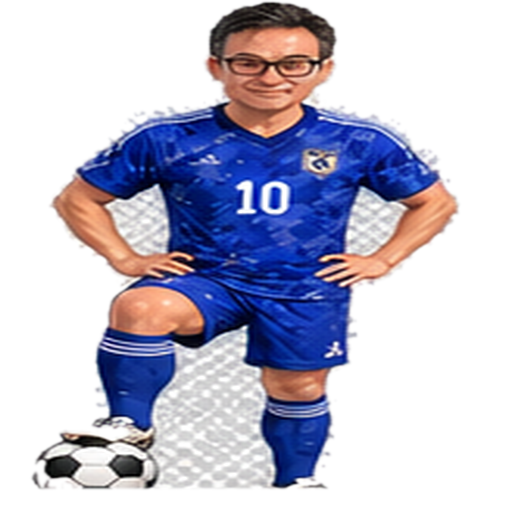
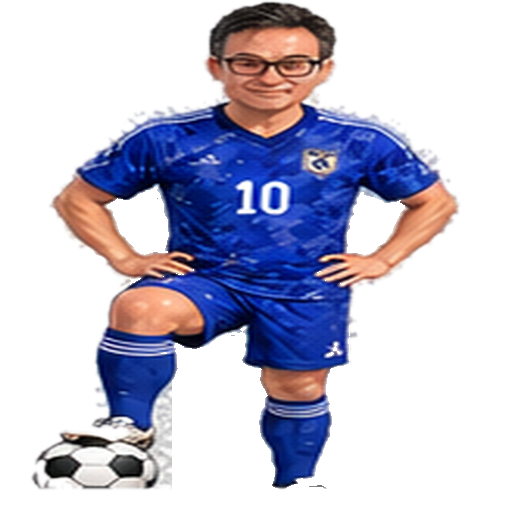
主人公スプライトを拡大し、足元の切り抜き残りを除去
- フィールド画面の主人公表示サイズを拡大（顔が判別できる大きさに）
- tanabe.png の足元まわりに残っていた背景の網目模様の切り抜き残りを除去
- 差し替えに合わせてキャッシュ回避のバージョンクエリを付与

Claude-Session: https://claude.ai/code/session_01MAs7Q3Gb4edbL9QTaBWda5

diff --git a/js/engine/soccer.js b/js/engine/soccer.js
@@ -91,7 +91,7 @@ class SoccerMatch {
     c.strokeRect(this.W/2-55,12,110,22);c.strokeRect(this.W/2-55,this.H-34,110,22);c.restore();
     const drawPlayer=(o,color)=>{c.fillStyle=color;c.beginPath();c.arc(o.x,o.y,8,0,Math.PI*2);c.fill();c.strokeStyle="#fff";c.stroke();};
     this.teammates.forEach(m=>{const mi=m.sprite?getImage(m.sprite):null;if(mi)c.drawImage(mi,m.x-10,m.y-15,20,28);else drawPlayer(m,"#1976d2");});this.enemies.forEach(e=>drawPlayer(e,this.elapsed<this.specialUntil?"#b07b7b":"#d32f2f"));
-    const ti=getImage("assets/characters/tanabe.png");if(ti)c.drawImage(ti,this.tanabe.x-12,this.tanabe.y-18,24,34);else drawPlayer(this.tanabe,"#ffd54f");
+    const ti=getImage("assets/characters/tanabe.png?v=2");if(ti)c.drawImage(ti,this.tanabe.x-12,this.tanabe.y-18,24,34);else drawPlayer(this.tanabe,"#ffd54f");
     c.fillStyle="#fff";c.beginPath();c.arc(this.ball.x,this.ball.y,5,0,Math.PI*2);c.fill();c.strokeStyle="#111";c.stroke();
     c.fillStyle="rgba(0,0,0,.72)";c.fillRect(0,0,this.W,52);c.fillStyle="#fff";c.font="bold 15px sans-serif";c.fillText(`田辺 ${this.score.player} - ${this.score.cpu} 相手`,14,22);c.font="12px sans-serif";c.fillText(`残り ${Math.max(0,Math.ceil(this.duration-this.elapsed))}秒`,14,41);
     c.fillStyle="rgba(0,0,0,.68)";c.fillRect(0,this.H-38,this.W,38);c.font="12px sans-serif";c.fillStyle="#fff";c.fillText(`体力 ${Math.ceil(this.state.player.stamina)}  運 ${this.state.player.luck}`,14,this.H-15);

diff --git a/js/engine/field.js b/js/engine/field.js
@@ -315,10 +315,10 @@ class FieldController {
     if (map.boss && !this.state.flags.seitaiDefeated) this.marker(map.boss.x, map.boss.y, tw, th, cameraY, "整体師", "rgba(210,55,45,.92)");
     if (map.hiddenNpc && this.state.flags.seitaiDefeated && !this.state.hiddenEvents.mat) this.marker(map.hiddenNpc.x, map.hiddenNpc.y, tw, th, cameraY, "老人", "rgba(135,70,190,.92)");
 
-    // プレイヤー。全身画像は縦長なので、足元基準で小さく描画。
-    const playerImg = getImage("assets/characters/tanabe.png");
+    // プレイヤー。顔がわかる大きさまで拡大し、足元基準で描画（複数マスにまたがってOK）。
+    const playerImg = getImage("assets/characters/tanabe.png?v=2");
     const px = this.visX * tw, py = this.visY * th - cameraY;
-    const pH = Math.min(76, Math.max(52, Math.min(tw * 1.55, th * 0.95)));
+    const pH = Math.min(150, Math.max(96, th * 2.3));
     const pW = pH * 0.72;
     if (playerImg) {
       ctx.save();

diff --git a/js/engine/main.js b/js/engine/main.js
@@ -30,7 +30,7 @@ function init() {
     if (MATCH) MATCH.render();
   });
   // マップ画像を先読みしておき、切り替わった瞬間に絵が出ない状態を防ぐ
-  ["assets/maps/field_home.png","assets/maps/field_route.png","assets/maps/town_map.png","assets/maps/dungeon_map.png","assets/characters/tanabe.png"]
+  ["assets/maps/field_home.png","assets/maps/field_route.png","assets/maps/town_map.png","assets/maps/dungeon_map.png","assets/characters/tanabe.png?v=2"]
     .forEach(p => getImage(p));
   showTitleScreen();
   // 5秒ごと＋画面を閉じる直前に現在位置/残り時間を保存
